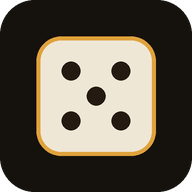
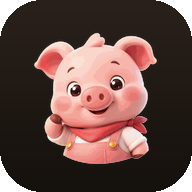
아이콘을 주사위에서 마스코트로 — 그리고 맥 앱 이름이 아직 영문이었다
재성님 바탕화면에 "주사위 골목 Dice Alley"가 남아 있다는 제보에서 시작했다.
확인해보니 그 문자열은 **옛 `manifest.json`의 `name` 값 그대로**였다(Electron 빌드 이름은 "Yacht Dice"였다)
— 즉 브라우저에서 추가한 웹앱(PWA)이다. PWA 이름은 설치 시점에 박히므로 지우고 다시 추가해야 바뀐다.

그 김에 데스크톱 쪽에 남아 있던 것들을 정리했다.

## 아이콘 — 주사위 🎲 → 마스코트 🐷

'주사위'는 13종 중 4종만 설명해서 오늘 **이름에서 뺐는데**, 아이콘은 여전히 주사위였다.
허브 로고는 이미 돼지라 첫 화면과 아이콘의 얼굴이 서로 달랐다.
→ 에스프레소 배경(지금 아이콘의 배경색을 물려받는다)에 마스코트를 얹었다. 재성님이 시안 3안 중 고른 것.

같이 바뀌는 곳: **웹 파비콘 · PWA(설치형 웹앱) · 맥 앱 · 안드로이드 런처.**
안드로이드는 밀도 5종(mdpi~xxxhdpi)의 `ic_launcher`·`ic_launcher_round`·`ic_launcher_foreground`를 다시 그렸다.
⚠ adaptive 아이콘 전경은 **가운데 안전영역(약 66%) 안**에 들어와야 잘리지 않는다 — 전경만 52%로 줄여 그렸다.

## 맥 앱

- `build.productName` "Yacht Dice" → **딱세판만**, 창 제목도(main.js) 딱세판만.
- **`build.icon`이 아예 설정돼 있지 않았다** — 빌드 로그가 "application icon is not set"으로 경고하며
  기본 Electron 아이콘으로 나가고 있었다. 이제 `public/icon-512.png`를 쓴다.
- 새 dmg: `dist/딱세판만-1.252.0-arm64.dmg` (번들 확인: CFBundleName=딱세판만 · icon.icns에 돼지)

⚠ **코드 서명은 못 했다.** 유효한 개발자 인증서가 0개다(Apple Developer 계정 필요).
   서명 없이 배포하면 첫 실행에서 "확인되지 않은 개발자" 경고가 뜨고 **우클릭 → 열기**로 넘어가야 한다.
⚠ 폰 배포는 못 했다 — 커밋 시점에 기기가 분리돼 있었다. 다시 꽂고 `npm run app:deploy`.

검증: audit:hub 7항목 · audit:readable 0건 · 맥 번들 이름·아이콘 육안 확인

diff --git a/main.js b/main.js
@@ -36,7 +36,7 @@ async function createWindow() {
     backgroundColor: transparent ? '#00000000' : '#15111f',
     hasShadow: true,
     resizable: true,
-    title: 'Yacht Dice',
+    title: '딱세판만',
     webPreferences: {
       preload: path.join(__dirname, 'preload.js'),
       contextIsolation: true,
